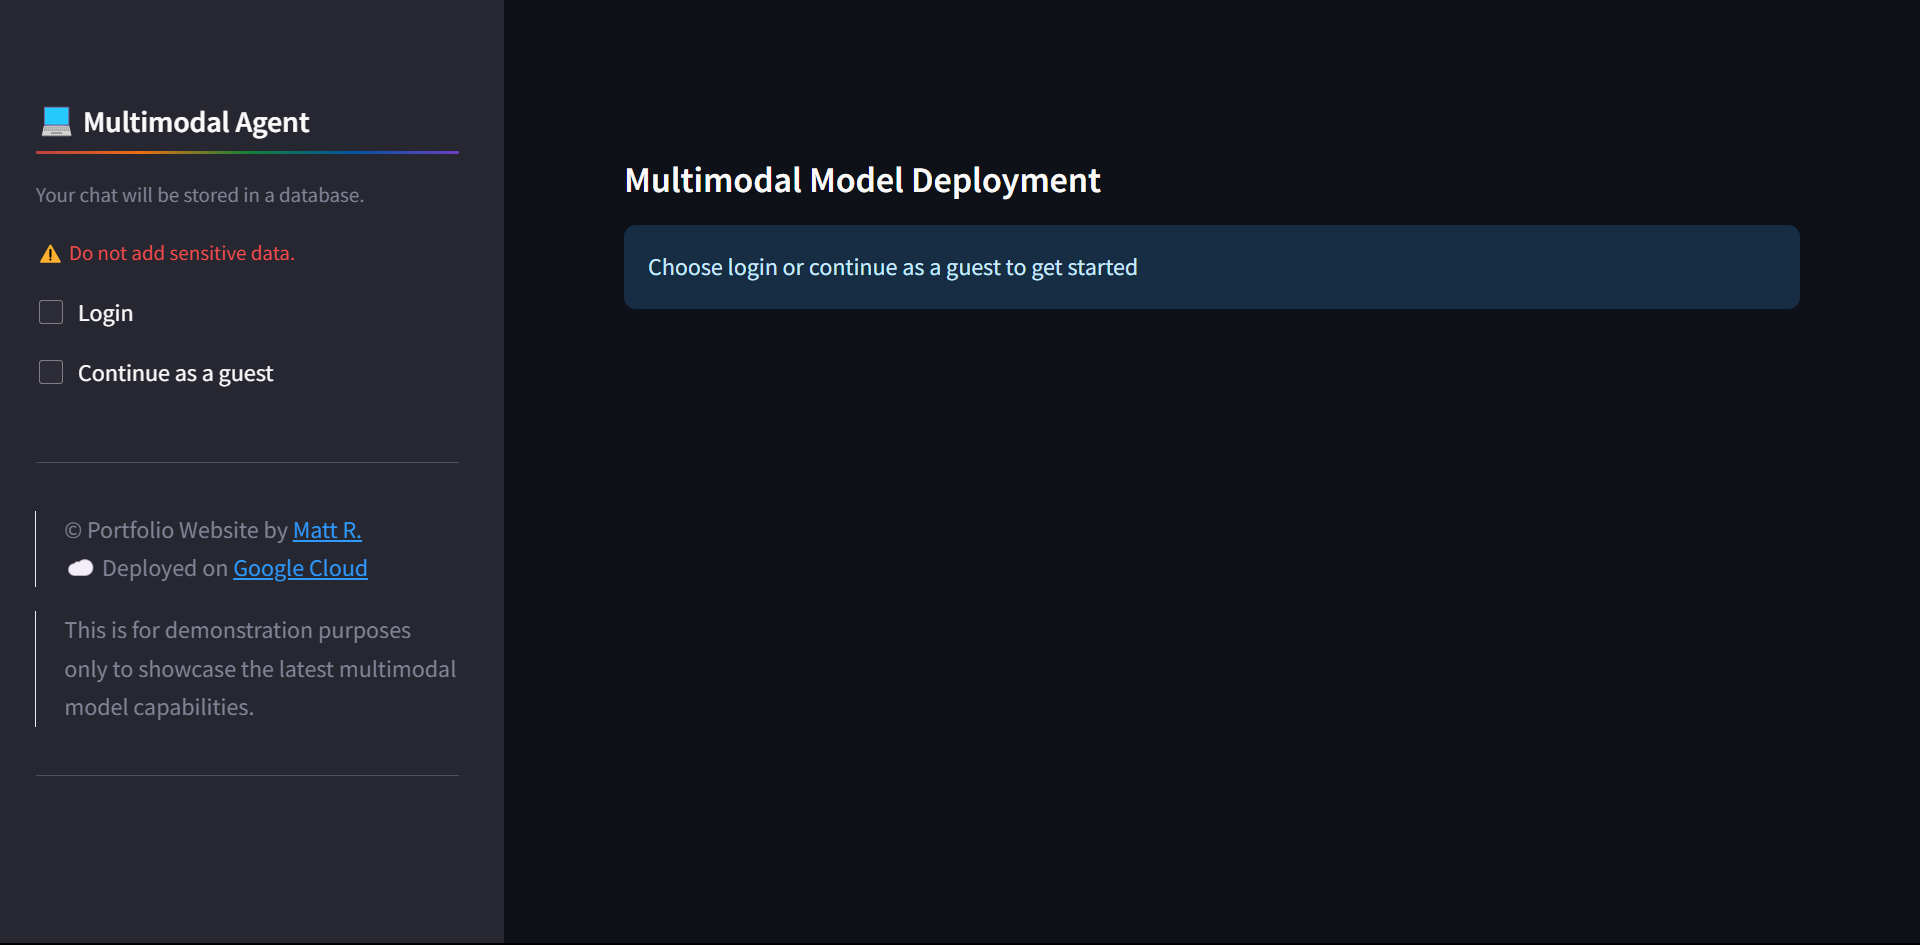
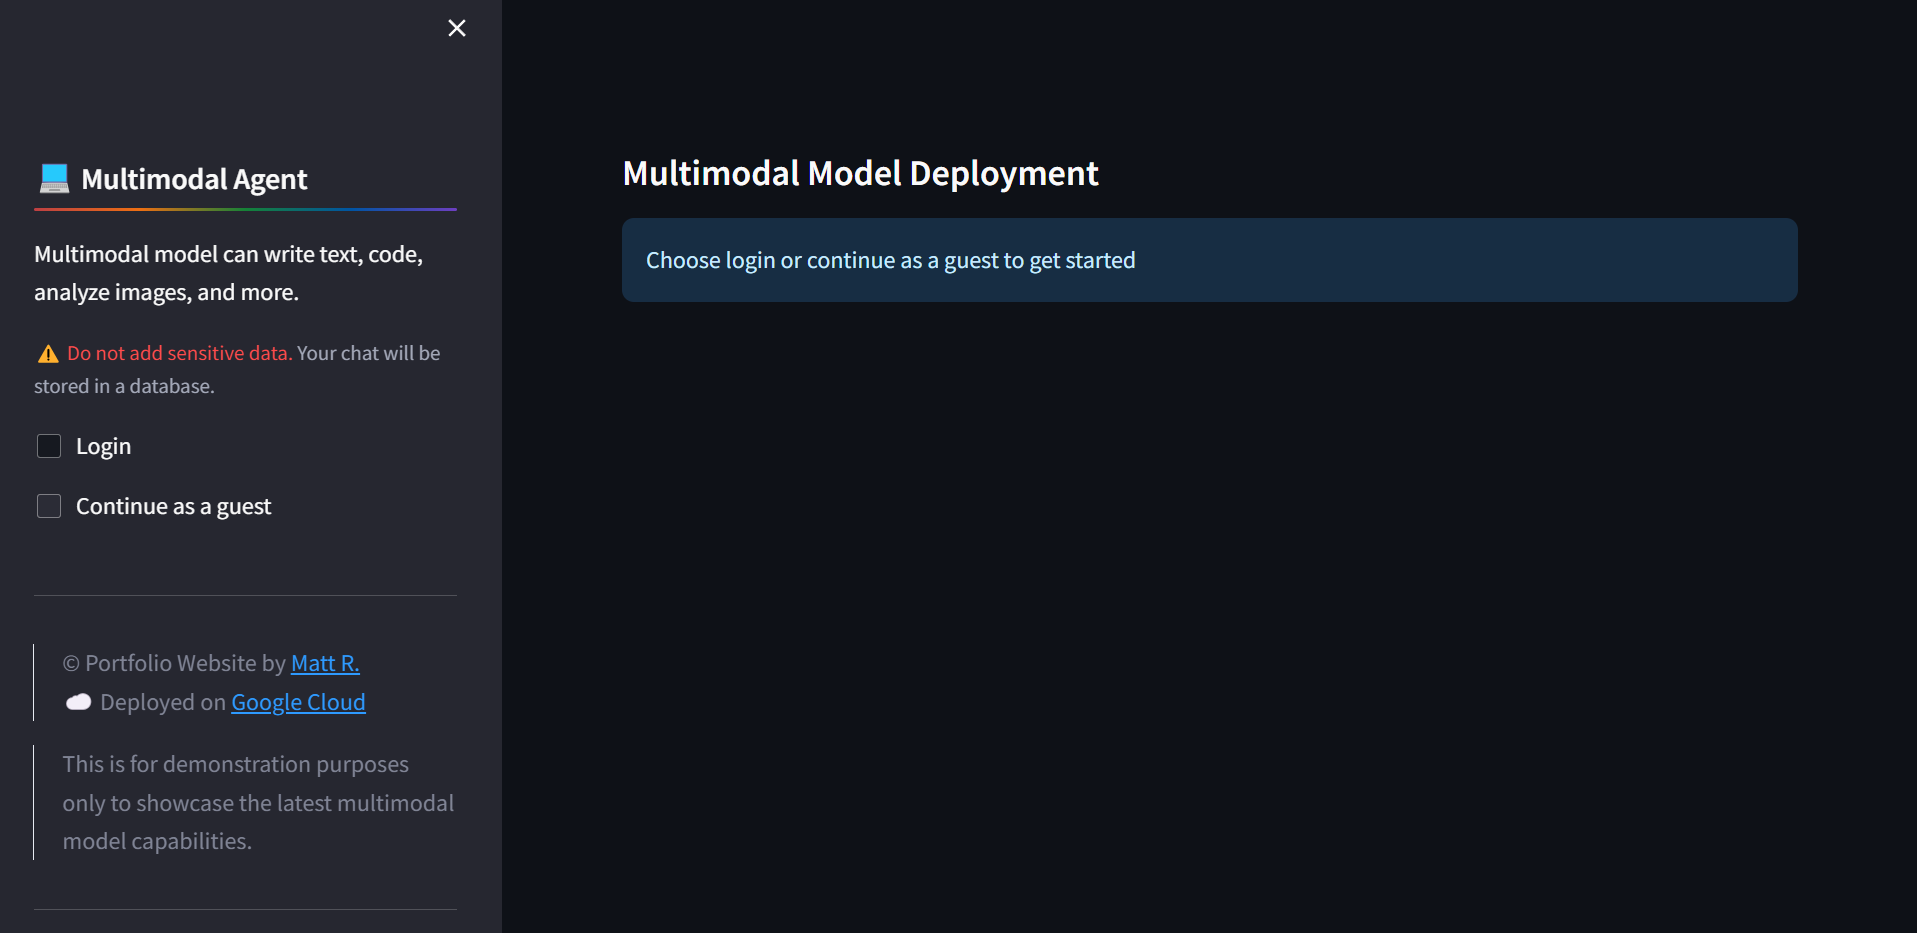
Add and modify files

diff --git a/app-dev-multimodal/Agent.py b/app-dev-multimodal/Agent.py
@@ -1153,8 +1153,11 @@ if __name__ == '__main__':
         with st.sidebar:
             st.header(":computer: Multimodal Agent ",divider="rainbow")
             # st.caption("## Multimodal Chat Agent")
-            st.caption(f":gray[Your chat will be stored in a database.]")
-            st.caption(":warning: :red[Do not add sensitive data.]")
+            st.write(f"Multimodal model can write text, code, analyze images, and more.")
+            st.caption("""
+                        :warning: :red[Do not add sensitive data.] Your chat will be stored in a database. 
+                        
+                        """)
             # st.write("Login or Continue as a guest")
             login = st.checkbox("Login")
             guest = st.checkbox("Continue as a guest")

diff --git a/app-multimodal/Agent.py b/app-multimodal/Agent.py
@@ -1153,8 +1153,11 @@ if __name__ == '__main__':
         with st.sidebar:
             st.header(":computer: Multimodal Agent ",divider="rainbow")
             # st.caption("## Multimodal Chat Agent")
-            st.caption(f":gray[Your chat will be stored in a database.]")
-            st.caption(":warning: :red[Do not add sensitive data.]")
+            st.write(f"Multimodal model can write text, code, analyze images, and more.")
+            st.caption("""
+                        :warning: :red[Do not add sensitive data.] Your chat will be stored in a database. 
+                        
+                        """)
             # st.write("Login or Continue as a guest")
             login = st.checkbox("Login")
             guest = st.checkbox("Continue as a guest")
